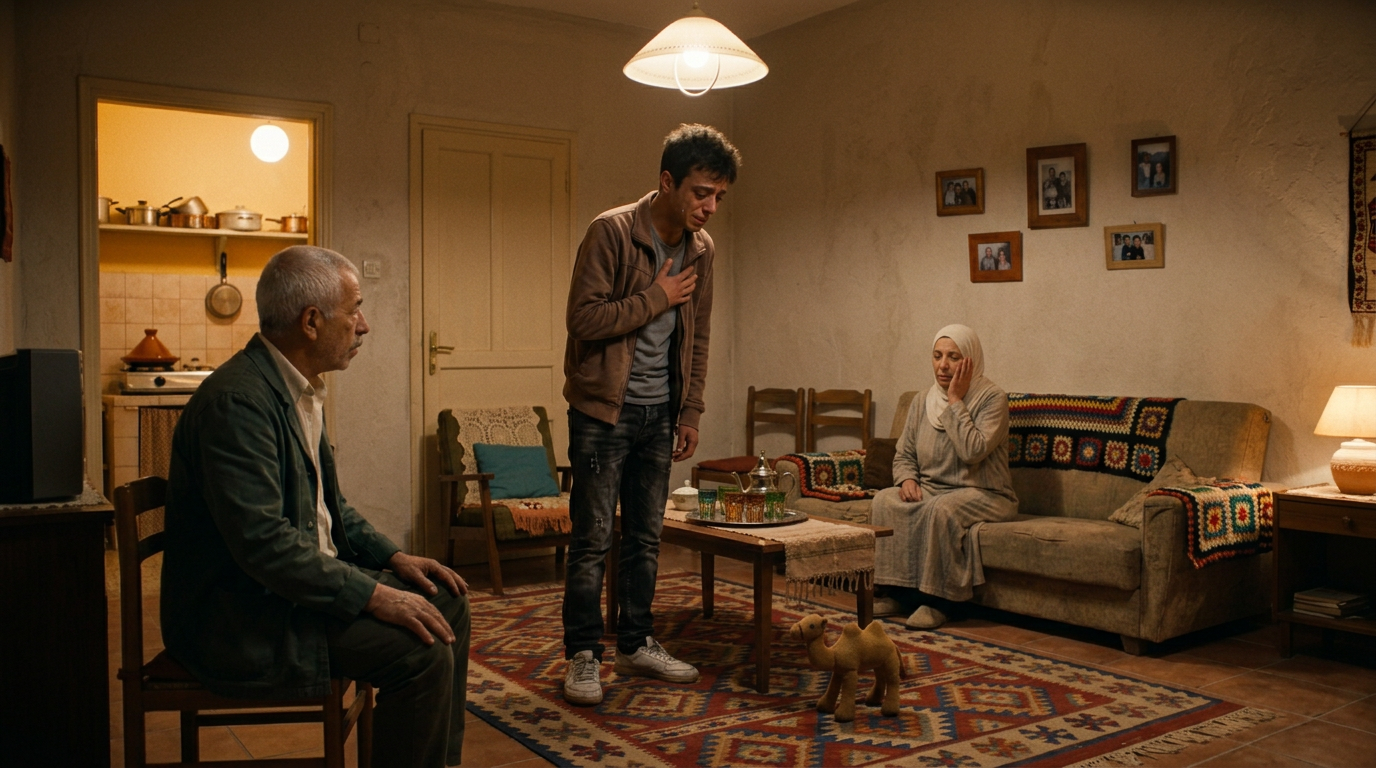
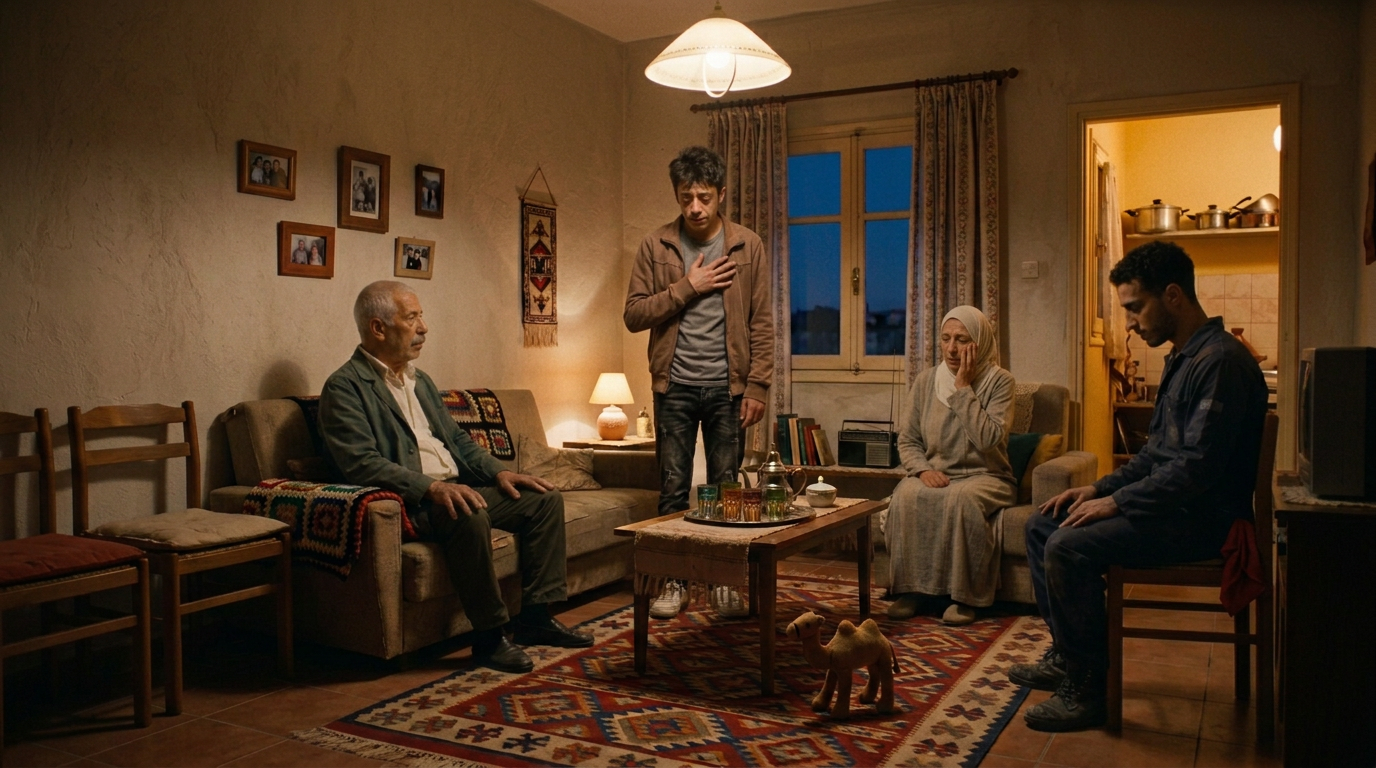
FIX: locked living-room blocking map (client note) — regenerate SC16-SC18 with master-shot reference technique + complete SC18

diff --git a/ATHAR_AL_ZAYT_FINAL_FILM/04_FLOW_VIDEO_PROMPTS/SC16_FLOW_PROMPT.md b/ATHAR_AL_ZAYT_FINAL_FILM/04_FLOW_VIDEO_PROMPTS/SC16_FLOW_PROMPT.md
@@ -1,11 +1,11 @@
 # SCENE 16 — المواجهة الهادئة
 **فيلم «آثار الزيت» • 10 ثوانٍ بالضبط • 16:9 أفقي • المشهد 16 من 27**
 
-## 🎬 لقطات المشهد
+## 🎬 لقطات المشهد — بنفس خريطة التثبيت (الكاميرا تتغير، المواضع لا)
 | # | الملف | الدور |
 |---|---|---|
-| 1 | `SC16_IMAGE_A_WIDE.png` | **إطار البداية** — واسعة: الحاج جالس وأمين بجانبه والأم قلقة — وياسين متجمد عند مدخل الغرفة |
-| 2 | `SC16_IMAGE_B_ACTION.png` | الحدث: الحاج يكسر الجليد بهدوء ويشير ليجلس |
+| 1 | `SC16_IMAGE_A_WIDE.png` | **اللقطة الأم** — واسعة: الحاج جالس يسار الكنبة، الأم يمين الكنبة، أمين على الكرسي يمين، ياسين واقف متجمد وسط الغرفة |
+| 2 | `SC16_IMAGE_B_ACTION.png` | الحدث: الحاج يجنّب بهدوء ويشير لمكان فارغ ليجلس |
 | 3 | `SC16_IMAGE_C_REACTION.png` | التعليق: كلوز وجه ياسين الشاحب المتجمد |
 
 ---
@@ -15,16 +15,16 @@
 ```
 Photorealistic live-action Algerian short film. 10 seconds exactly — Horizontal landscape 16:9.
 
-Animate the scene from the attached images, keeping the characters and the living room EXACTLY as shown: the thin 19-year-old young man (faded brown zip-up jacket over gray t-shirt), the dignified older man around 60 (gray-white hair, thin gray mustache, dark-green casual jacket over white shirt) seated on a simple chair, the young mechanic (navy-blue coverall, red cloth in his right back pocket) standing beside him, and the mother (beige-gray home dress, white-beige headscarf) near the sofa. Living room layout FIXED: sofa with crocheted covers as backdrop, low table with tea set in the middle, kitchen doorway background LEFT, framed family photos, patterned rug. Warm evening lamp light.
+Animate the scene from the attached images, keeping the characters, the living room and the FIXED POSITIONS EXACTLY as shown in every image: the older man around 60 (gray-white hair, thin gray mustache, dark-green casual jacket over white shirt) is SEATED on the LEFT side of the sofa and never moves; the mother (beige-gray home dress, white-beige headscarf) is SEATED on the RIGHT end of the sofa and never moves; the young mechanic (navy-blue coverall, red cloth in his right back pocket) is SEATED on the simple chair to the right of the sofa and never moves; the thin 19-year-old young man (faded brown zip-up jacket over gray t-shirt) STANDS in the center of the room just behind the low tea table, facing the sofa, and stays at his spot. The room layout never changes: sofa with crocheted covers as backdrop, low table with tea set in the middle, kitchen doorway in the background on the LEFT. Warm evening lamp light.
 
-0–4s — Wide as in the first image: the young man steps into the living room doorway and FREEZES — his face goes pale as he sees the two visitors; heavy silence; the mother watches worried; nobody moves.
+0–4s — Wide as in the first image: the young man stands frozen at his spot in the center of the room, pale, staring at the visitors; the three seated people look at him; heavy silence; nobody moves.
 
-4–8s — Medium as in the second image: the older man breaks the ice calmly, leaning slightly forward, one open hand gesturing gently toward a free seat, lip-synced, soft Algerian dialect: «ياسين… جينا نهضرو معاك. اقعد يا وليدي.»
+4–8s — Medium as in the second image: the older man leans slightly forward on the sofa and breaks the ice calmly, one open hand gesturing gently toward the empty middle of the sofa, lip-synced, soft Algerian dialect: «ياسين… جينا نهضرو معاك. اقعد يا وليدي.»
 
-8–10s — Close as in the third image: the young man's pale shocked face, throat tight, he barely manages, lip-synced, choking voice: «…يا الحاج.» Final frame: his eyes lower, defeated.
+8–10s — Close as in the third image: the young man's pale shocked face; he barely answers, lip-synced, choking voice: «…يا الحاج.»
 
-CAMERA: static wide, slow move to the seated older man, then static close-up. Calm moves only.
-SOUND: tense room silence, the wall clock faintly, the mother's worried breath, soft voices, no music.
+CAMERA: static wide, gentle move to medium on the sofa, then static close-up. The camera angle changes but the positions of people and furniture NEVER change.
+SOUND: tense room silence, a faint wall clock, the mother's worried breath, soft voices, no music.
 FORMAT: Horizontal landscape 16:9 only, cinematic widescreen framing. Never vertical 9:16, never portrait, never square. Do not crop the image into a vertical frame.
 ```
 
@@ -33,11 +33,11 @@ FORMAT: Horizontal landscape 16:9 only, cinematic widescreen framing. Never vert
 ## 🚫 NEGATIVE PROMPT
 
 ```
-No vertical 9:16, no portrait, no square. Do not change the faces, ages or outfits of any character from the attached images. No extra people, no children in this scene. No distorted hands, no extra fingers, no fused hands. No shouting, no violence, no police. Keep the living room layout: sofa backdrop, table in the middle, kitchen doorway background LEFT. No text, no watermark, no subtitles, no logos, no readable text anywhere.
+No vertical 9:16, no portrait, no square. Do not change the faces, ages or outfits of any character from the attached images. Do NOT move anyone from their fixed position: the older man stays seated on the LEFT of the sofa, the mother stays seated on the RIGHT end of the sofa, the mechanic stays on his chair at the right, the young man stays standing in the center. No seat swapping, no wandering, no teleporting, no furniture moving. No extra people, no children in this scene. No distorted hands, no extra fingers. No text, no watermark, no subtitles, no logos, no readable text anywhere.
 ```
 
 ## 🔗 آخر إطار — للربط بالمشهد التالي (SC17)
-عينا ياسين تنخفضان مستسلماً → SC17: يقف في وسط الغرفة ويعترف بالبكاء المضبوط.
+وجه ياسين المذعور وصوته المختنق → SC17: نفس المواضع تماماً — يعتذر معترفاً بالبكاء المضبوط.
 
 ## ✅ فحص سريع
-16:9 ✓ • الشخصيات الأربعة بثبات مراجعهم ✓ • هندسة الغرفة مقفلة (مطبخ يسار) ✓ • مساء دافئ ✓ • حوار الحاج الهادئ + جواب ياسين المختنق ✓ • 10 ثوانٍ ✓ • آخر إطار يفتح SC17 ✓
+16:9 ✓ • **خريطة التثبيت مطبقة في اللقطات الثلاث** ✓ • الشخصيات الأربعة بثبات مراجعهم ✓ • هندسة الغرفة مقفلة (مطبخ يسار) ✓ • مساء دافئ ✓ • حوار الحاج + جواب ياسين ✓ • 10 ثوانٍ ✓ • آخر إطار يفتح SC17 ✓

diff --git a/ATHAR_AL_ZAYT_FINAL_FILM/04_FLOW_VIDEO_PROMPTS/SC17_FLOW_PROMPT.md b/ATHAR_AL_ZAYT_FINAL_FILM/04_FLOW_VIDEO_PROMPTS/SC17_FLOW_PROMPT.md
@@ -1,11 +1,11 @@
 # SCENE 17 — الاعتراف
 **فيلم «آثار الزيت» • 10 ثوانٍ بالضبط • 16:9 أفقي • المشهد 17 من 27**
 
-## 🎬 لقطات المشهد
+## 🎬 لقطات المشهد — بنفس خريطة التثبيت (الكاميرا تتغير، المواضع لا)
 | # | الملف | الدور |
 |---|---|---|
-| 1 | `SC17_IMAGE_A_WIDE.png` | **إطار البداية** — واسعة: ياسين واقف عند الطاولة يبكي بصوت مضبوط، الحاج جالس يراقب بجدية، الأم خلفية على الكنبة |
-| 2 | `SC17_IMAGE_B_ACTION.png` | الحدث: ياسين يعترف بيده على صدره (كتف الحاج في مقدمة الكادر) |
+| 1 | `SC17_IMAGE_A_WIDE.png` | **إطار البداية** — واسعة بنفس مواضع SC16: ياسين واقف في مكانه رأسه منحنٍ ودموعه، الحاج جالس يراقب، الأم يدّها على خدها |
+| 2 | `SC17_IMAGE_B_ACTION.png` | الحدث: ياسين يعتذر بيده على صدره (كتف الحاج الجالس في مقدمة الكادر) |
 | 3 | `SC17_IMAGE_C_REACTION.png` | التعليق: كلوز وجه ياسين الدامع لحظة الاعتراف |
 
 ---
@@ -15,15 +15,15 @@
 ```
 Photorealistic live-action Algerian short film. 10 seconds exactly — Horizontal landscape 16:9.
 
-Animate the scene from the attached images, keeping the characters and the living room EXACTLY as shown: the thin 19-year-old young man (faded brown zip-up jacket over gray t-shirt) standing near the low table, the dignified older man around 60 (dark-green casual jacket over white shirt) seated listening, and the mother (beige-gray home dress, white-beige headscarf) on the sofa in the background pressing a hand to her cheek. Living room layout FIXED: sofa backdrop, low table with tea set in the middle, kitchen doorway background LEFT, framed family photos. Warm evening lamp light.
+Animate the scene from the attached images, keeping the characters, the living room and the FIXED POSITIONS EXACTLY as shown in every image: the thin 19-year-old young man (faded brown zip-up jacket over gray t-shirt) STANDS at his fixed spot in the center of the room just behind the low tea table, facing the sofa, and stays there; the older man around 60 (dark-green casual jacket over white shirt) is SEATED on the LEFT side of the sofa; the mother (beige-gray home dress, white-beige headscarf) is SEATED on the RIGHT end of the sofa; the young mechanic (navy-blue coverall) is SEATED on his chair to the right of the sofa. The room layout never changes: sofa backdrop, low table with tea set in the middle, kitchen doorway background on the LEFT. Warm evening lamp light.
 
-0–3s — Wide as in the first image: the young man stands with his head bowed, restrained tears on his cheeks, shoulders slumped in shame; the older man watches him gravely; the mother's hand on her cheek. Silence, only a suppressed sob.
+0–3s — Wide as in the first image: the young man stands at his fixed spot, head bowed, restrained tears on his cheeks, shoulders slumped in shame; the older man watches him gravely from the sofa; the mother presses a hand to her cheek; silence, one suppressed sob.
 
-3–8s — Medium over-the-shoulder as in the second image: the young man raises one hand and presses it flat against his chest in admission, and confesses clearly, lip-synced, voice breaking, Algerian dialect: «أنا اللي خذيت الفلوس يا الحاج… أنا.»
+3–8s — Medium over-the-shoulder as in the second image, from behind the seated older man: the young man presses one hand flat against his chest and confesses clearly, lip-synced, voice breaking, Algerian dialect: «أنا اللي خذيت الفلوس يا الحاج… أنا.»
 
-8–10s — Slow push to close-up as in the third image: his tearful face, one tear rolling, lips trembling, he lowers his head slightly and adds, lip-synced, barely audible: «سمح لي.» Final frame: his bowed head, hand still on his chest.
+8–10s — Slow push to close-up as in the third image: his tearful face, one tear rolling, he lowers his head slightly and adds, lip-synced, barely audible: «سمح لي.»
 
-CAMERA: static wide, then slow deliberate push toward his face. Calm moves only.
+CAMERA: static wide, then a slow deliberate push toward his face. The camera angle changes but the positions of people and furniture NEVER change.
 SOUND: room silence, his broken breathing and controlled crying, the faint wall clock, no music.
 FORMAT: Horizontal landscape 16:9 only, cinematic widescreen framing. Never vertical 9:16, never portrait, never square. Do not crop the image into a vertical frame.
 ```
@@ -33,11 +33,11 @@ FORMAT: Horizontal landscape 16:9 only, cinematic widescreen framing. Never vert
 ## 🚫 NEGATIVE PROMPT
 
 ```
-No vertical 9:16, no portrait, no square. Do not change the faces, ages or outfits from the attached images. No exaggerated crying, no wailing, no shouting, no collapsing. No extra people. No distorted hands, no extra fingers, no fused hands. Keep the living room layout: sofa backdrop, table in the middle, kitchen doorway background LEFT. No text, no watermark, no subtitles, no logos, no readable text anywhere.
+No vertical 9:16, no portrait, no square. Do not change the faces, ages or outfits from the attached images. Do NOT move anyone from their fixed position: the young man stays standing in the center, the older man stays seated on the LEFT of the sofa, the mother stays seated on the RIGHT end, the mechanic stays on his chair. No seat swapping, no wandering, no teleporting. No exaggerated crying, no wailing, no shouting, no collapsing. No extra people. No distorted hands, no extra fingers. No text, no watermark, no subtitles, no logos, no readable text anywhere.
 ```
 
 ## 🔗 آخر إطار — للربط بالمشهد التالي (SC18)
-رأس ياسين منحنٍ ويده لا تزال على صدره → SC18: يشرح ظروفه بألم وصمت الأم في الخلفية.
+رأس ياسين منحنٍ ويده على صدره → SC18: نفس المواضع — يشرح ظروفه والأم تستمع بقلب مكسور.
 
 ## ✅ فحص سريع
-16:9 ✓ • ياسين بسترة بنية + الحاج جالس + الأم خلفية ✓ • بكاء مضبوط لا صراخ ✓ • اقتراب بطيء نحو الوجه (كما في الخطة) ✓ • حوار الاعتراف واضح ✓ • 10 ثوانٍ ✓ • آخر إطار يفتح SC18 ✓
+16:9 ✓ • **نفس مواضع SC16 حرفياً** ✓ • بكاء مضبوط لا صراخ ✓ • اقتراب بطيء نحو الوجه ✓ • حوار الاعتراف واضح ✓ • 10 ثوانٍ ✓ • آخر إطار يفتح SC18 ✓

diff --git a/ATHAR_AL_ZAYT_FINAL_FILM/04_FLOW_VIDEO_PROMPTS/SC18_FLOW_PROMPT.md b/ATHAR_AL_ZAYT_FINAL_FILM/04_FLOW_VIDEO_PROMPTS/SC18_FLOW_PROMPT.md
@@ -1,0 +1,43 @@
+# SCENE 18 — الظروف
+**فيلم «آثار الزيت» • 10 ثوانٍ بالضبط • 16:9 أفقي • المشهد 18 من 27**
+
+## 🎬 لقطات المشهد — بنفس خريطة التثبيت (الكاميرا تتغير، المواضع لا)
+| # | الملف | الدور |
+|---|---|---|
+| 1 | `SC18_IMAGE_A_WIDE.png` | **إطار البداية** — واسعة بنفس مواضع SC16/17: ياسين يشرح بيده المفتوحة، الحاج يستمع بجدية، الأم يدها على قلبها |
+| 2 | `SC18_IMAGE_B_ACTION.png` | الحدث: ياسين يشرح الظروف بألم — بلا تبرير |
+| 3 | `SC18_IMAGE_C_REACTION.png` | التعليق: كلوز الحاج جالساً يستمع بوقار — تمهيداً لكلمته في SC20 |
+
+---
+
+## 📋 GOOGLE FLOW VIDEO PROMPT — COPY READY
+
+```
+Photorealistic live-action Algerian short film. 10 seconds exactly — Horizontal landscape 16:9.
+
+Animate the scene from the attached images, keeping the characters, the living room and the FIXED POSITIONS EXACTLY as shown in every image: the thin 19-year-old young man (faded brown zip-up jacket over gray t-shirt) STANDS at his fixed spot in the center of the room just behind the low tea table, facing the sofa, and stays there; the older man around 60 (dark-green casual jacket over white shirt) is SEATED on the LEFT side of the sofa; the mother (beige-gray home dress, white-beige headscarf) is SEATED on the RIGHT end of the sofa; the young mechanic (navy-blue coverall) is SEATED on his chair to the right of the sofa. The room layout never changes: sofa backdrop, low table with tea set in the middle, kitchen doorway background on the LEFT. Warm evening lamp light.
+
+0–3s — Wide as in the first image: same fixed positions; the young man explains himself with painful honesty, one hand half-open in a helpless gesture, dried tear tracks on his face; the older man listens gravely, hands folded on his knee; the mother listens with heartbreak.
+
+3–8s — Medium as in the second image: the young man explains, lip-synced, ashamed but no longer hiding, Algerian dialect: «دوّرت على خدمة… ما لقيتش. باباي مات وما بقاتلنا حتى شي. شفت أمّي وخبّتي… ما لقيتش طريق آخر.»
+
+8–10s — Close as in the third image: the seated older man's grave patient face listening, eyes thoughtful; the young man's voice continues off-screen (no lip movement on screen): «غلطت يا الحاج.» Final frame: the older man's eyes lower thoughtfully.
+
+CAMERA: static wide, gentle move to medium on the young man, then static close-up on the older man. The camera angle changes but the positions of people and furniture NEVER change.
+SOUND: quiet room, the young man's slow ashamed voice, the faint wall clock, no music.
+FORMAT: Horizontal landscape 16:9 only, cinematic widescreen framing. Never vertical 9:16, never portrait, never square. Do not crop the image into a vertical frame.
+```
+
+---
+
+## 🚫 NEGATIVE PROMPT
+
+```
+No vertical 9:16, no portrait, no square. Do not change the faces, ages or outfits from the attached images. Do NOT move anyone from their fixed position: the young man stays standing in the center, the older man stays seated on the LEFT of the sofa, the mother stays seated on the RIGHT end, the mechanic stays on his chair. No seat swapping, no wandering, no teleporting. No extra people. No distorted hands, no extra fingers. No text, no watermark, no subtitles, no logos, no readable text anywhere.
+```
+
+## 🔗 آخر إطار — للربط بالمشهد التالي (SC19)
+عينا الحاج تنخفضان متأملتين → SC19: الأم تمسح دموعها (نفس الغرفة والمواضع).
+
+## ✅ فحص سريع
+16:9 ✓ • **نفس مواضع SC16/17 حرفياً** ✓ • شرح الظروف بلا تبرير ✓ • كلوز الحاج يمهد لـ SC20 ✓ • 10 ثوانٍ ✓ • آخر إطار يفتح SC19 ✓

diff --git a/ATHAR_AL_ZAYT_FINAL_FILM/02_LOCATION_REFERENCES/HOUSE_LIVING.md b/ATHAR_AL_ZAYT_FINAL_FILM/02_LOCATION_REFERENCES/HOUSE_LIVING.md
@@ -17,3 +17,11 @@ FORMAT: Horizontal landscape 16:9 only, cinematic widescreen framing. Never vert
 - مواضع الأثاث ثابتة: الكنبة خلفية رئيسية، الطاولة وسط، مدخل المطبخ خلفية يسار.
 - **مكان تسليم المال (SC17):** قرب الطاولة الصغيرة — ياسين واقف أمام الحاج الجالس، الأم على الكنبة.
 - لعبة الطفلة على السجادة قرب الكنبة في كل مشاهد المساء.
+
+## 📍 خريطة التثبيت المقفلة (SC16 → SC27) — مطلب العميل 17 أكتوبر
+**القاعدة: زاوية الكاميرا تتغير (يمين/يسار/فوق/تحت) لكن مواضع الشخصيات والأثاث لا تتغير أبداً.**
+- **الحاج:** جالس الجهة اليسرى من الكنبة — لا يتحرك (ينهض فقط للانصراف SC26-27).
+- **الأم:** جالسة الطرف الأيمن من الكنبة — لا تتحرك (الأخت تلعب على السجادة قربها SC19/SC25).
+- **أمين:** جالس على الكرسي البسيط يمين الكنبة — لا يتحرك (ينهض للمصافحة SC26).
+- **ياسين:** واقف وسط الغرفة خلف طاولة الشاي، مواجه للكنبة — لا يتحرك (خطوة أمامية واحدة فقط لتسليم المال SC21، ويجلس بجوار أمه في SC25).
+- **طريقة التنفيذ:** `SC16_IMAGE_A_WIDE.png` هي **اللقطة الأم** — تُمرَّر ضمن `images` في كل توليد جديد لغرفة الجلوس + يُكتب نص المواضع صراحة في كل برومبت.

diff --git a/ATHAR_AL_ZAYT_FINAL_FILM/05_CONTINUITY_CHECKS/CONTINUITY_TABLE.md b/ATHAR_AL_ZAYT_FINAL_FILM/05_CONTINUITY_CHECKS/CONTINUITY_TABLE.md
@@ -34,7 +34,7 @@
 | SC15 | 🔍 | 🔍 | 🔍 | — | 🔍 |  |
 | SC16 | 🔍 | 🔍 | 🔍 | — | 🔍 |  |
 | SC17 | 🔍 | 🔍 | 🔍 | — | 🔍 | الاعتراف — بكاء مضبوط |
-| SC18 | 🔍 | ⏳ | ⏳ | — | ⏳ | A فقط هذه الجولة |
+| SC18 | 🔍 | 🔍 | 🔍 | — | 🔍 | أُعيدت بخريطة التثبيت |
 | SC19 | ⏳ | ⏳ | ⏳ | — | ⏳ | الأم فقط تتحدث |
 | SC20 | ⏳ | ⏳ | ⏳ | — | ⏳ |  |
 | SC21 | ⏳ | ⏳ | ⏳ | ⏳ | ⏳ | D: تسليم المال واضح |
